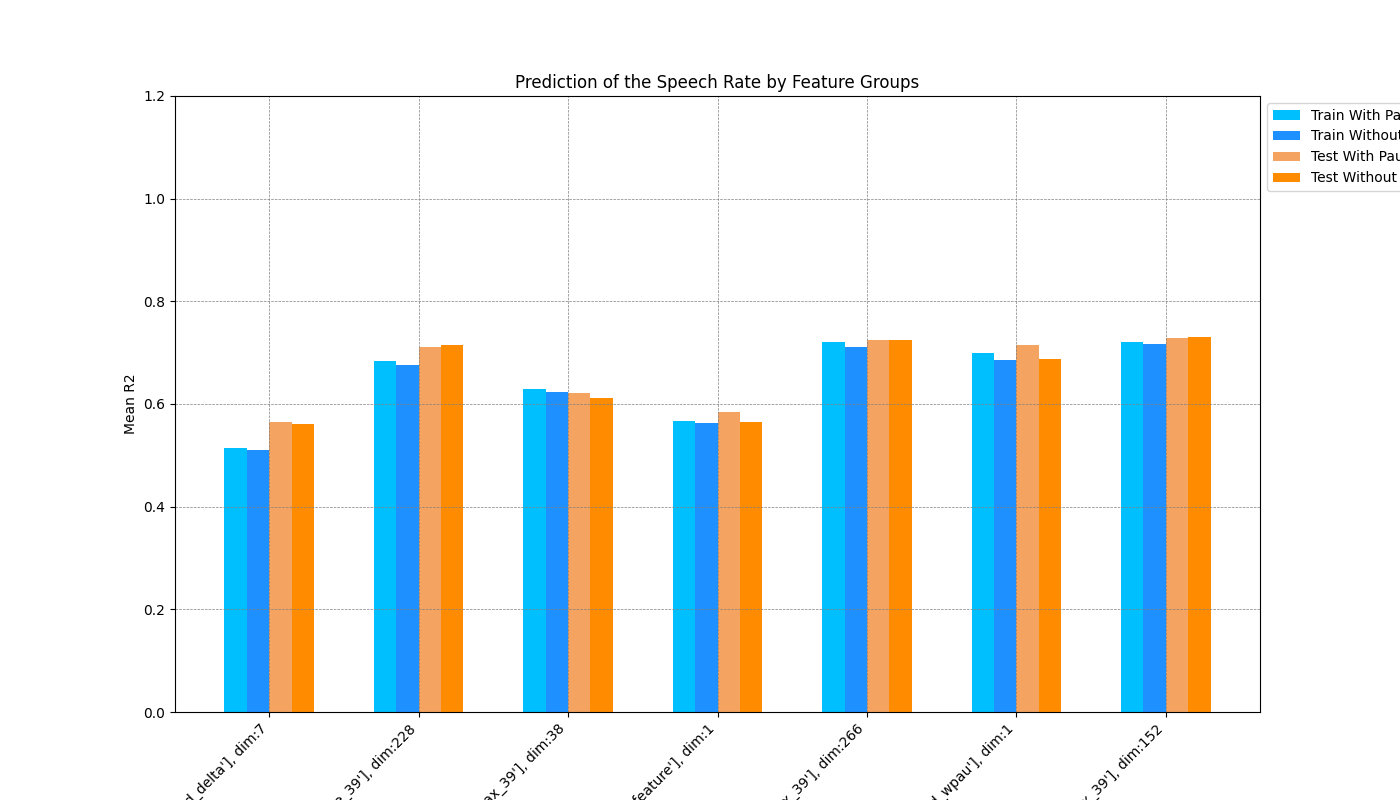
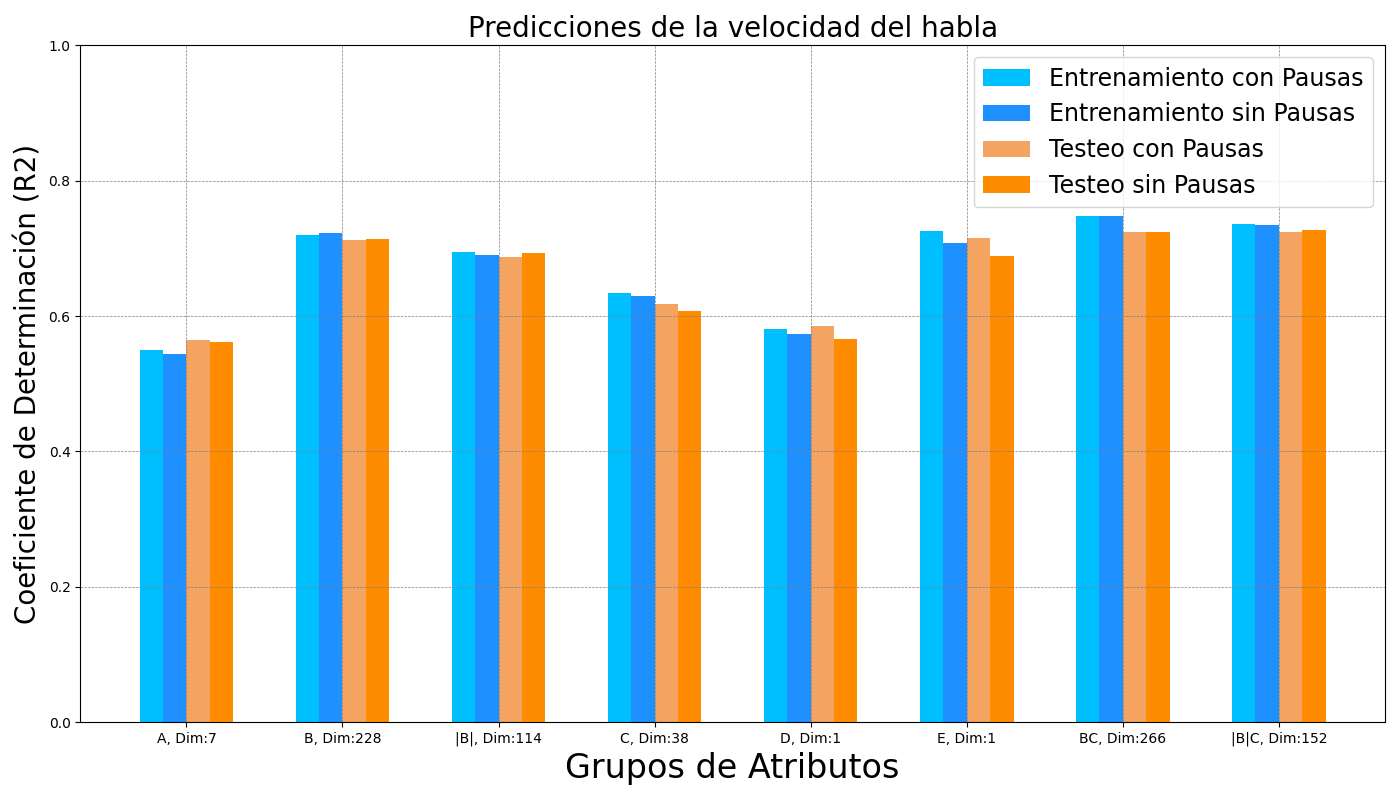
agrego foto

diff --git a/src/processing/mean_speed_experiments/run_mean_speed_experiments.py b/src/processing/mean_speed_experiments/run_mean_speed_experiments.py
@@ -283,7 +283,8 @@ plt.legend(fontsize='17', title_fontsize='100')
 
 plt.grid(True, which='major', linestyle='--', linewidth='0.5', color='grey')  # Add grid lines for better measurement estimation
 plt.tight_layout()  # Adjust layout to ensure no overlap of text/labels
-#plt.savefig('detailed_barplot_mean_speed_with_tone_variations.png')
+plt.savefig('detailed_barplot_mean_speed_with_tone_variations.png')
+
 plt.show()
 
 
